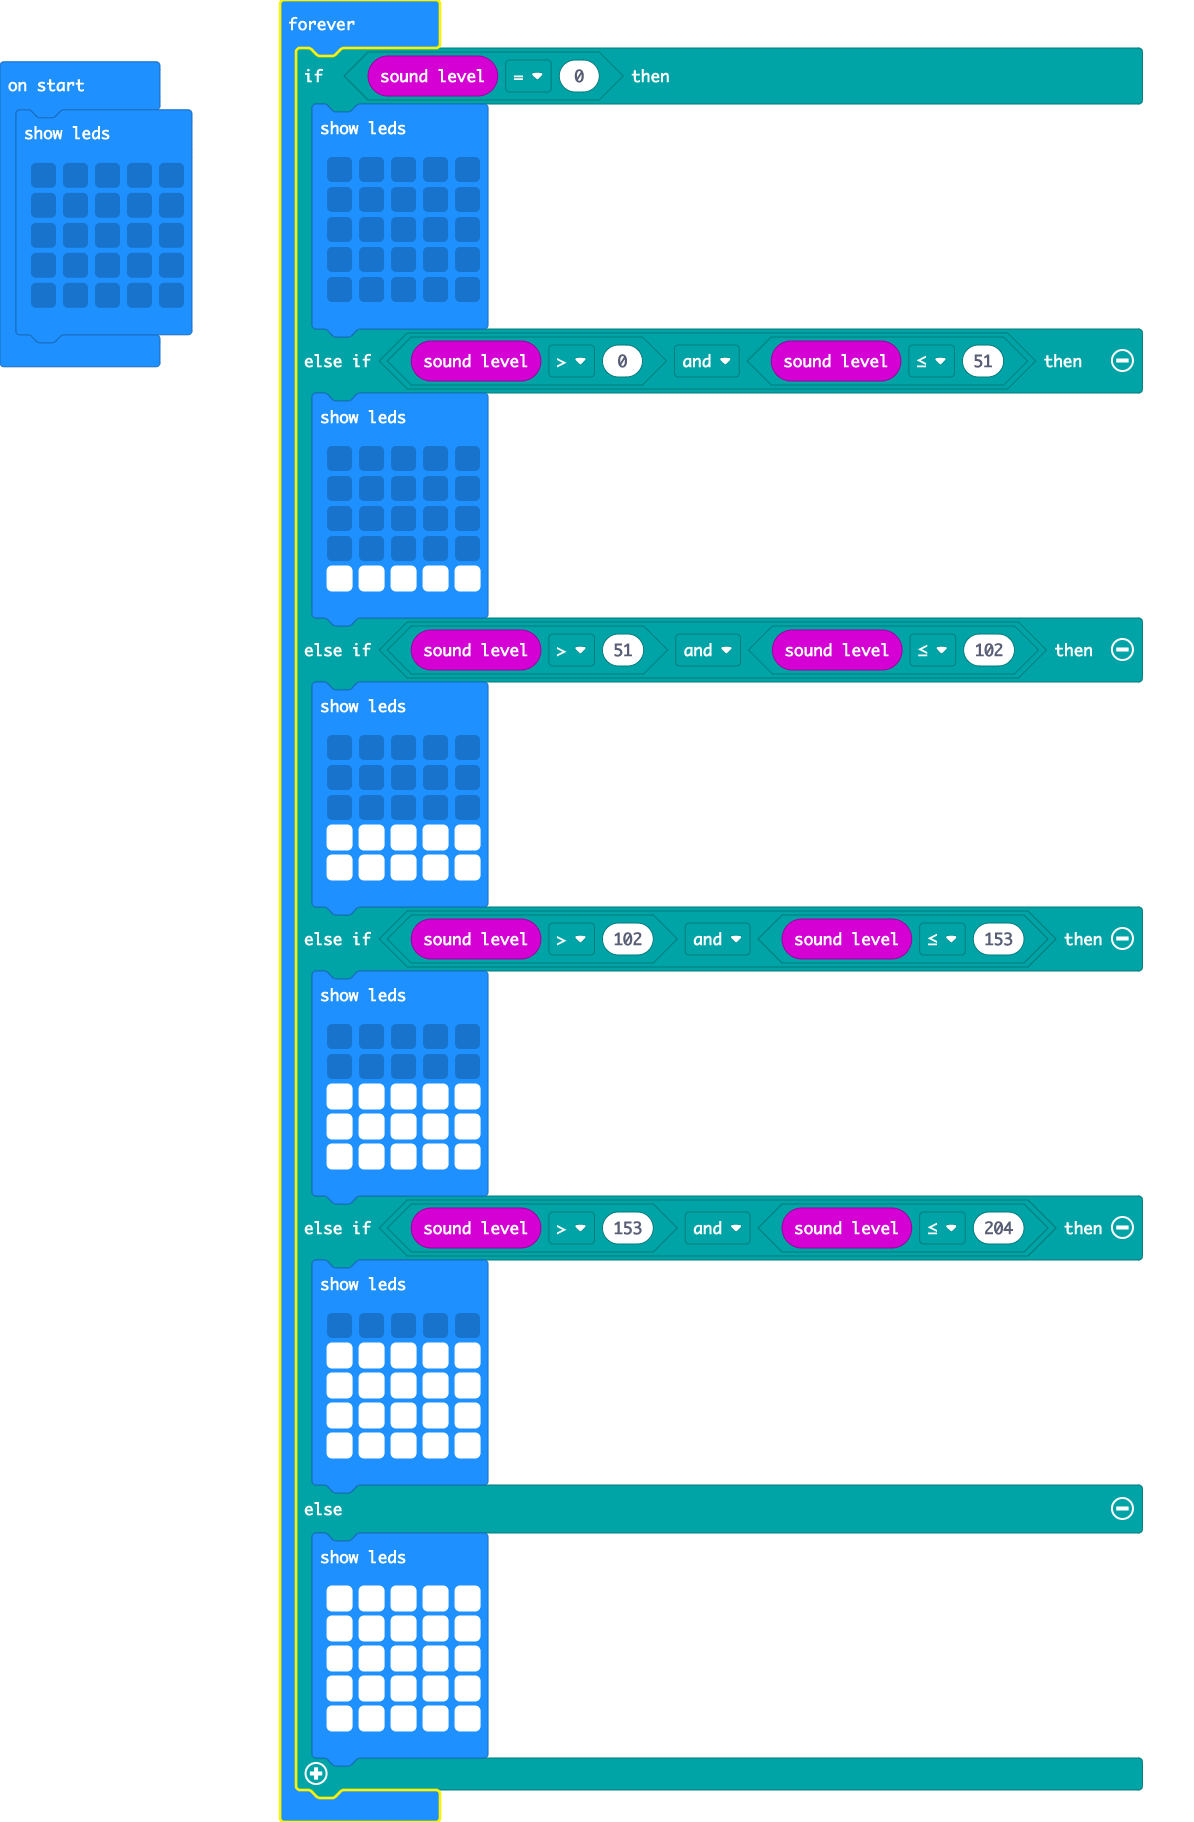
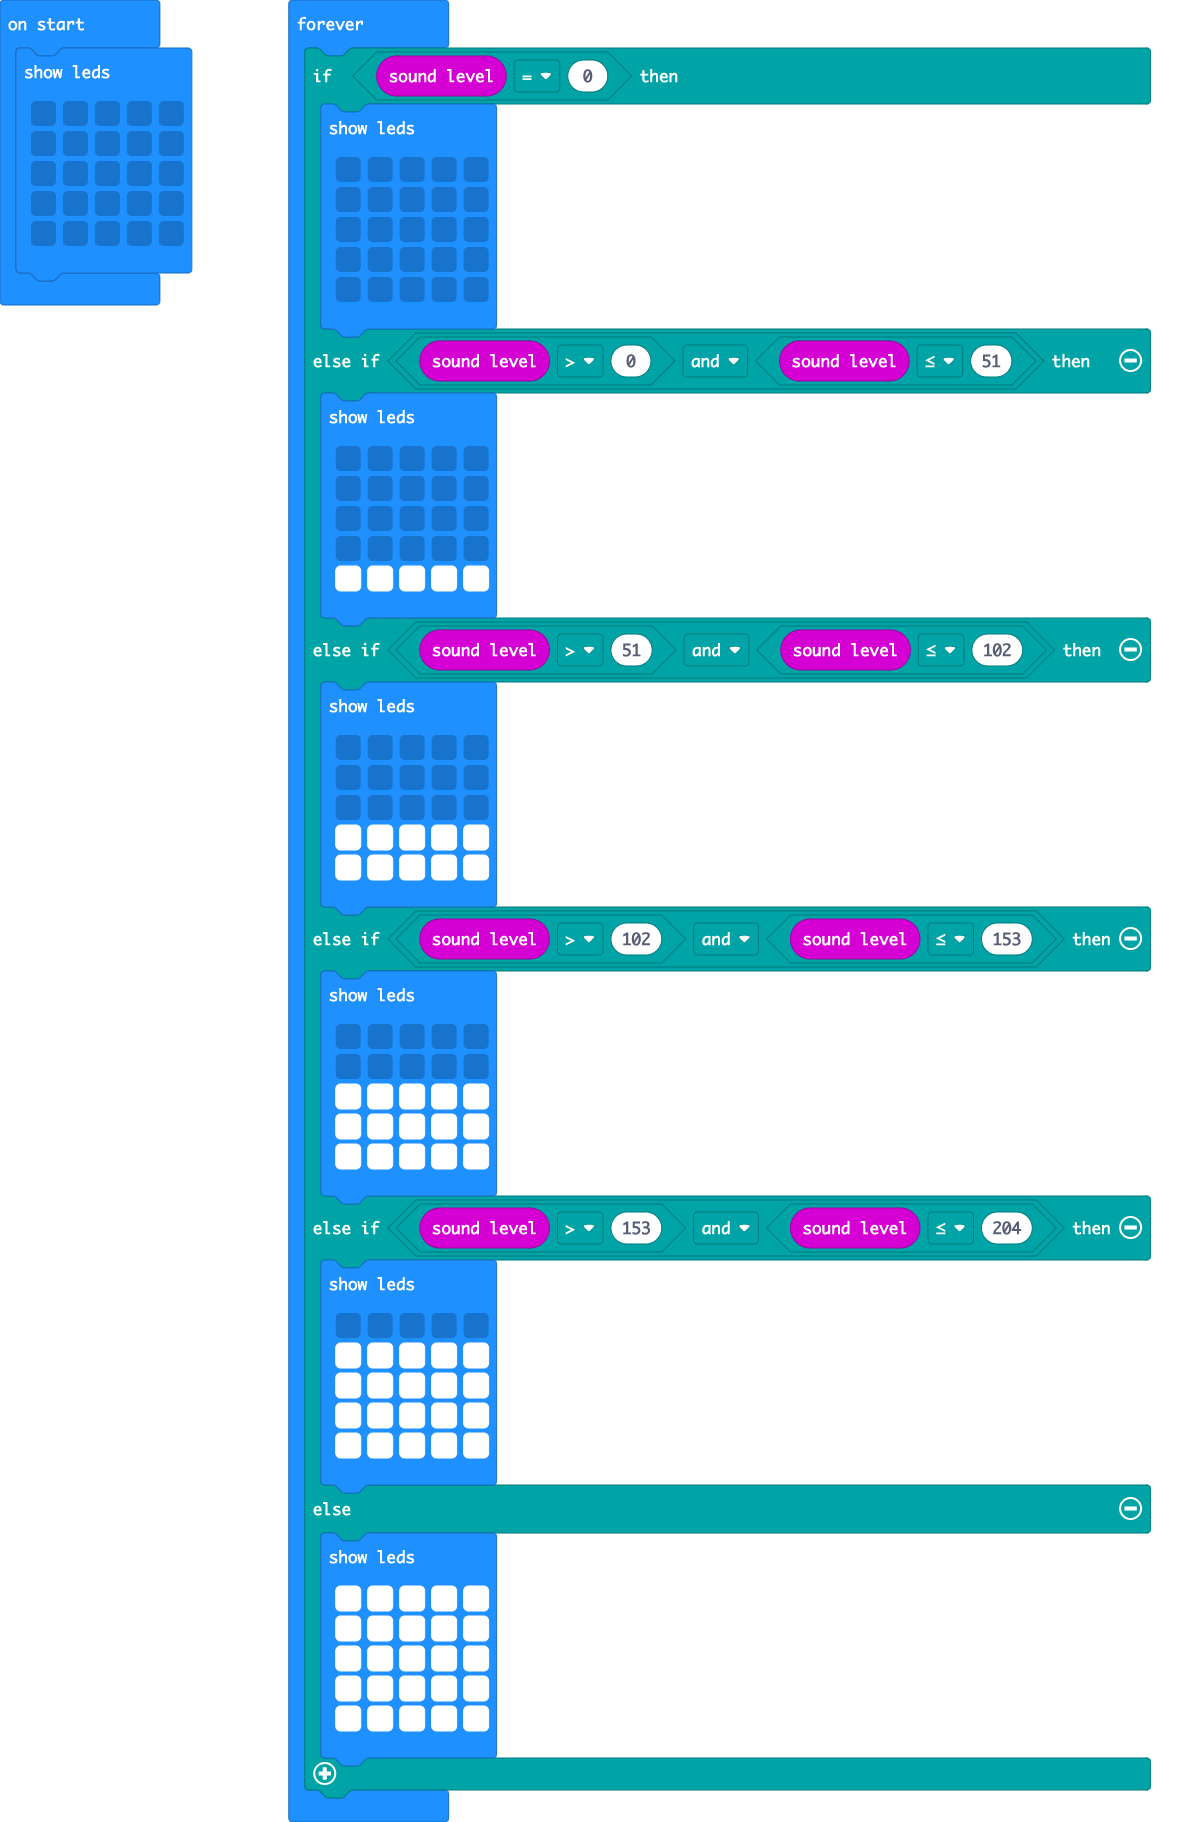
Update pxt.json, main.blocks, main.py

diff --git a/main.py b/main.py
@@ -1,0 +1,58 @@
+basic.show_leds("""
+    . . . . .
+    . . . . .
+    . . . . .
+    . . . . .
+    . . . . .
+    """)
+
+def on_forever():
+    if input.sound_level() == 0:
+        basic.show_leds("""
+            . . . . .
+            . . . . .
+            . . . . .
+            . . . . .
+            . . . . .
+            """)
+    elif input.sound_level() > 0 and input.sound_level() <= 51:
+        basic.show_leds("""
+            . . . . .
+            . . . . .
+            . . . . .
+            . . . . .
+            # # # # #
+            """)
+    elif input.sound_level() > 51 and input.sound_level() <= 102:
+        basic.show_leds("""
+            . . . . .
+            . . . . .
+            . . . . .
+            # # # # #
+            # # # # #
+            """)
+    elif input.sound_level() > 102 and input.sound_level() <= 153:
+        basic.show_leds("""
+            . . . . .
+            . . . . .
+            # # # # #
+            # # # # #
+            # # # # #
+            """)
+    elif input.sound_level() > 153 and input.sound_level() <= 204:
+        basic.show_leds("""
+            . . . . .
+            # # # # #
+            # # # # #
+            # # # # #
+            # # # # #
+            """)
+    else:
+        basic.show_leds("""
+            # # # # #
+            # # # # #
+            # # # # #
+            # # # # #
+            # # # # #
+            """)
+basic.forever(on_forever)
